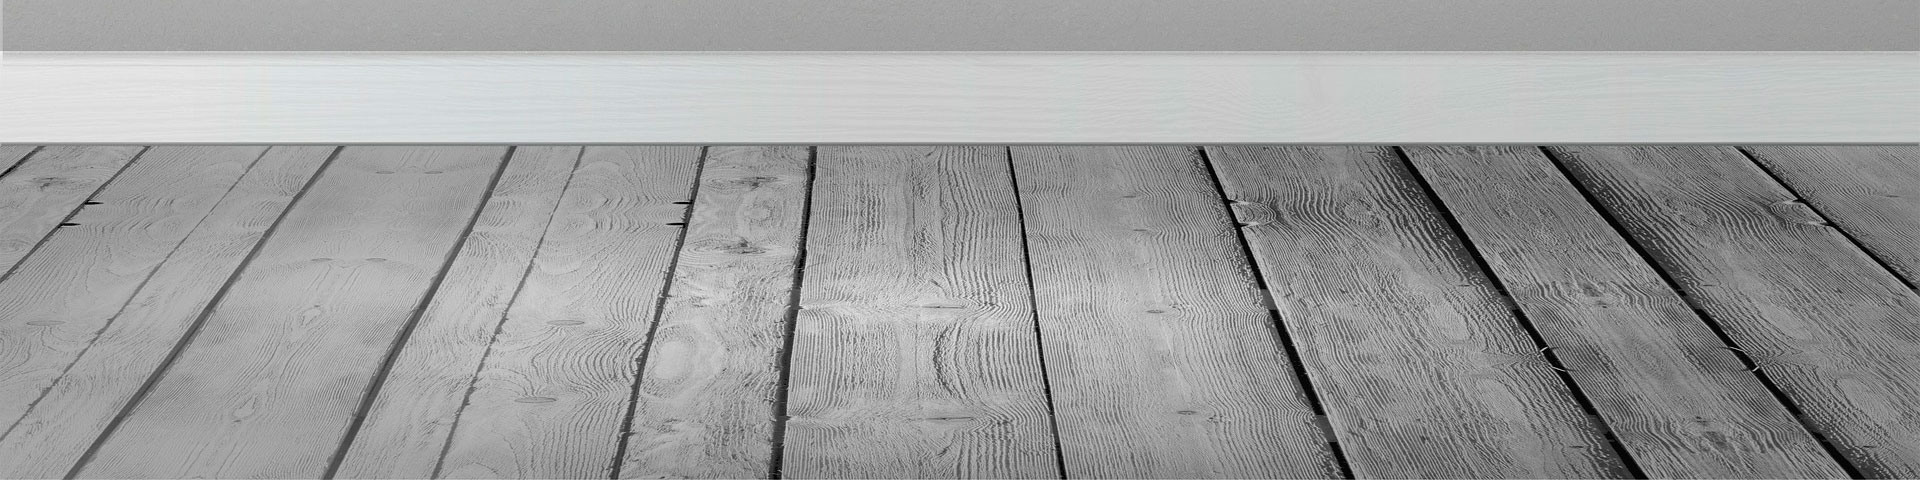
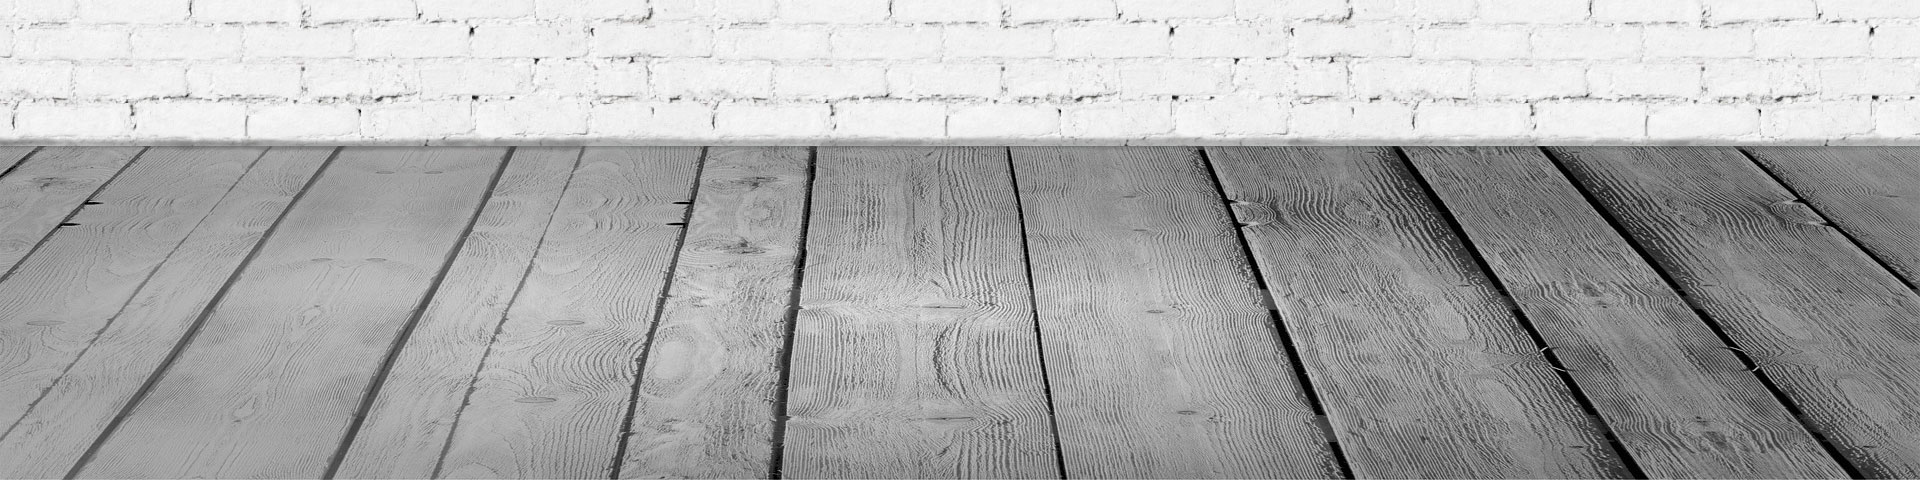
Сделал текстуру для фона и footer`а

Changed region(s): [[0.0, 0.0, 1.0, 0.3125], [0.0, 0.1875, 0.0312, 0.2188]]

diff --git a/index.html b/index.html
@@ -300,9 +300,9 @@
         <div class="container">
           <div class="row text-center">
 
-            <div style="margin: 60px;"></div>
+            <div style="margin: 90px;"></div>
 
-            <hr class="featurette-divider">
+            <!--<hr class="featurette-divider">-->
             <h5>Присоединяйтесь!</h5>
 
             <ul class="list-inline">
@@ -405,7 +405,7 @@
 
       owl.owlCarousel({
         items : 1, //10 items above 1000px browser width
-        autoPlay: 3000, //Set AutoPlay to 3 seconds
+        autoPlay: 5000, //Set AutoPlay to 3 seconds
         itemsDesktop : [995,1], //5 items between 1000px and 901px
         itemsDesktopSmall : [767, 1], // betweem 900px and 601px
         itemsTablet: [700, 1], //2 items between 600 and 0

diff --git a/css/styles.css b/css/styles.css
@@ -25,8 +25,8 @@
 body{
   min-height: 100%; 
   font-family: verdana, sans-serif;
-  background: #e8e8e8 url("../images/wall.jpg") 100% 100%;
-  /*background-size: cover;*/
+  background: #e8e8e8 url("../images/wall.jpg");
+  background-size: 40%;
 }
 .age-limit {
     font-family: 'Neucha',Montserrat,"Helvetica Neue",Helvetica,Arial,sans-serif;
